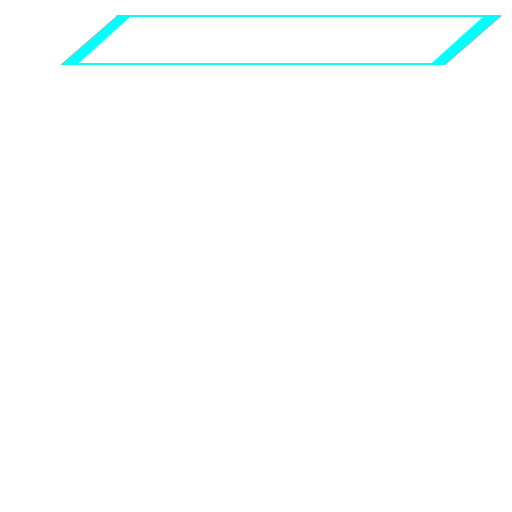
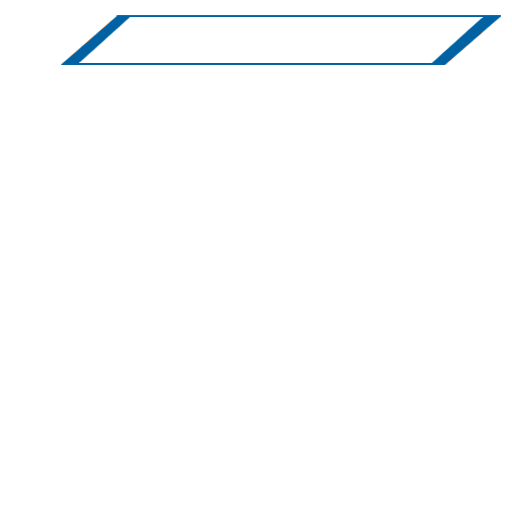
Changed how Dust initial velocity works, tweaked health and shield colors.

Changed region(s): [[0.8438, 0.0312, 0.9688, 0.125], [0.125, 0.0312, 0.25, 0.125]]

diff --git a/Broderoids/src/com/Broders/Entities/Asteroid.java b/Broderoids/src/com/Broders/Entities/Asteroid.java
@@ -90,7 +90,7 @@ public class Asteroid extends Entity {
 			for(int i = 0; i < temp;i++){
 				temp = 360/temp;
 				
-				Dust D = new Dust(CoreLogic.getScratch().nextId(), CoreLogic.getScratch(), (float)(Math.random()%10)+(temp*i), this.getX(), this.getY());
+				Dust D = new Dust(CoreLogic.getScratch().nextId(), CoreLogic.getScratch(), (float)(Math.random()%10)+(temp*i), this.getX(), this.getY(), 25);
 				CoreLogic.getScratch().getEntitiesMap().put(D.getId(), D);
 				
 			}
@@ -148,7 +148,7 @@ public class Asteroid extends Entity {
 			for(int i = 0; i < temp;i++){
 				temp = 360/temp;
 
-				Dust D = new Dust(CoreLogic.getScratch().nextId(), CoreLogic.getScratch(), (float)(Math.random()%10)+(temp*i), this.getX(), this.getY());
+				Dust D = new Dust(CoreLogic.getScratch().nextId(), CoreLogic.getScratch(), (float)(Math.random()%10)+(temp*i), this.getX(), this.getY(), 20);
 				CoreLogic.getScratch().getEntitiesMap().put(D.getId(), D);
 			}
 			this.getX();
@@ -203,7 +203,7 @@ public class Asteroid extends Entity {
 			for(int i = 0; i < temp;i++){
 				temp = 360/temp;
 
-				Dust D = new Dust(CoreLogic.getScratch().nextId(), CoreLogic.getScratch(), (float)(Math.random()%10)+(temp*i), this.getX(), this.getY());
+				Dust D = new Dust(CoreLogic.getScratch().nextId(), CoreLogic.getScratch(), (float)(Math.random()%10)+(temp*i), this.getX(), this.getY(), 15);
 				CoreLogic.getScratch().getEntitiesMap().put(D.getId(), D);
 			}
 		}

diff --git a/Broderoids/src/com/Broders/Entities/Ship.java b/Broderoids/src/com/Broders/Entities/Ship.java
@@ -191,22 +191,21 @@ public class Ship extends Entity {
 		int health = getOwner().getHealth();
 
 		if (health <= 50) {
-			smoke = 1;
+			smoke = 0.6f;
 			if (health <= 25)
-				smoke = 0.5f;
+				smoke = 0.3f;
 			if (health <= 15)
-				smoke = 0.25f;
-			if (health <= 5)
 				smoke = 0.1f;
+			if (health <= 5)
+				smoke = 0.05f;
 
 			smokeInterval +=  Gdx.graphics.getDeltaTime();
-			System.out.println("SmokeInterval " + smokeInterval);
 			
 			if (smokeInterval >= smoke) {
 				System.out.println("Smoke " + smoke);
 				
 				float dir = (float) ((super.getAngle() + 90) + (Math.random() * 30 - 15));
-				Dust D = new Dust(CoreLogic.getScratch().nextId(), CoreLogic.getScratch(), dir , this.getX(), this.getY());
+				Dust D = new Dust(CoreLogic.getScratch().nextId(), CoreLogic.getScratch(), dir , this.getX(), this.getY(), 7);
 				CoreLogic.getScratch().getEntitiesMap().put(D.getId(), D);
 				
 				smokeInterval = 0;
@@ -220,7 +219,7 @@ public class Ship extends Entity {
 		for(int i = 0; i < temp;i++){
 			temp = 360/temp;
 
-			Dust D = new Dust(CoreLogic.getScratch().nextId(), CoreLogic.getScratch(), (float)(Math.random()%10)+(temp*i) , this.getX(), this.getY());
+			Dust D = new Dust(CoreLogic.getScratch().nextId(), CoreLogic.getScratch(), (float)(Math.random()%10)+(temp*i) , this.getX(), this.getY(), 30);
 			CoreLogic.getScratch().getEntitiesMap().put(D.getId(), D);
 
 			setThrust(false);

diff --git a/Broderoids/src/com/Broders/Entities/Dust.java b/Broderoids/src/com/Broders/Entities/Dust.java
@@ -15,7 +15,7 @@ public class Dust extends Entity{
 	private float age;
 	private static float deathTime = 0.3f;
 	
-	public Dust(String id, Player owner, float dir, float x, float y) {
+	public Dust(String id, Player owner, float dir, float x, float y, float vel) {
 
 		super(id, owner);
 
@@ -50,11 +50,11 @@ public class Dust extends Entity{
 
 		super.createBody(bodDef, fixDef);
 
-		float speed = (float) (Math.random()*8 + 22);
+		vel = (float) ((vel*0.85f) + Math.random()*(vel*0.3f));
 		
 		// Set the velocity
-		float vX = (float) (speed * Math.cos(Math.toRadians(dir)));
-		float vY = (float) (speed * Math.sin(Math.toRadians(dir)));
+		float vX = (float) (vel * Math.cos(Math.toRadians(dir)));
+		float vY = (float) (vel * Math.sin(Math.toRadians(dir)));
 		super.body.setLinearVelocity(vX, vY);
 
 		//Set type data

diff --git a/Broderoids/src/com/Broders/Logic/CoreLogic.java b/Broderoids/src/com/Broders/Logic/CoreLogic.java
@@ -310,8 +310,8 @@ public class CoreLogic {
 		// TODO/NOTE: Should this use S or local.getShip()?
 		//Depends upon local or host player I think.
 		for (Ship S : getShips()) {
-			if (local.getShip().getX() - 8 <= x
-					&& x <= local.getShip().getX() + 8) {
+			if (local.getShip().getX() - 10 <= x
+					&& x <= local.getShip().getX() + 10) {
 				return -1; // lols Lazy logic TODO make better lazy logic
 			}
 			if (local.getShip().getY() - 8 <= x
